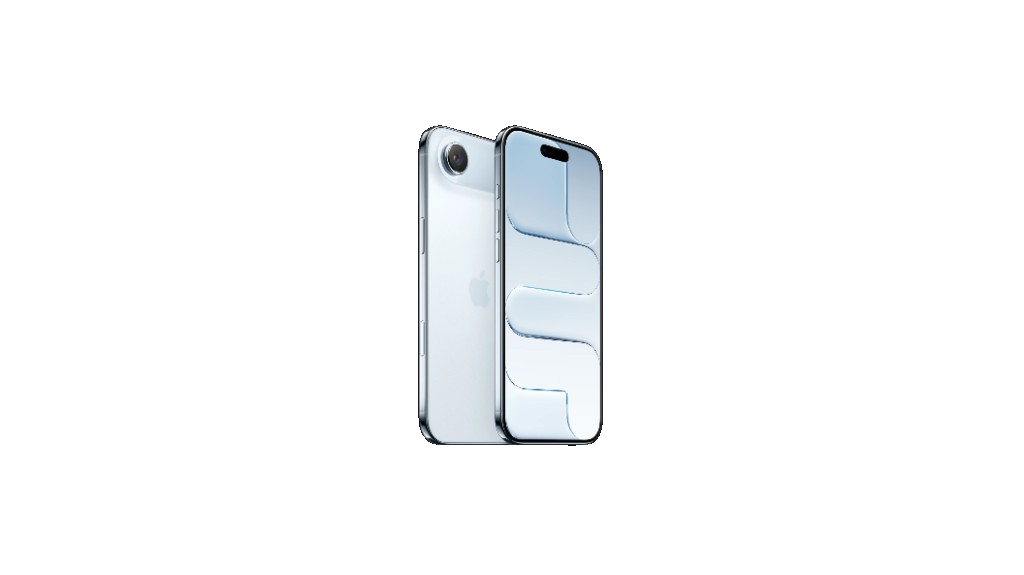
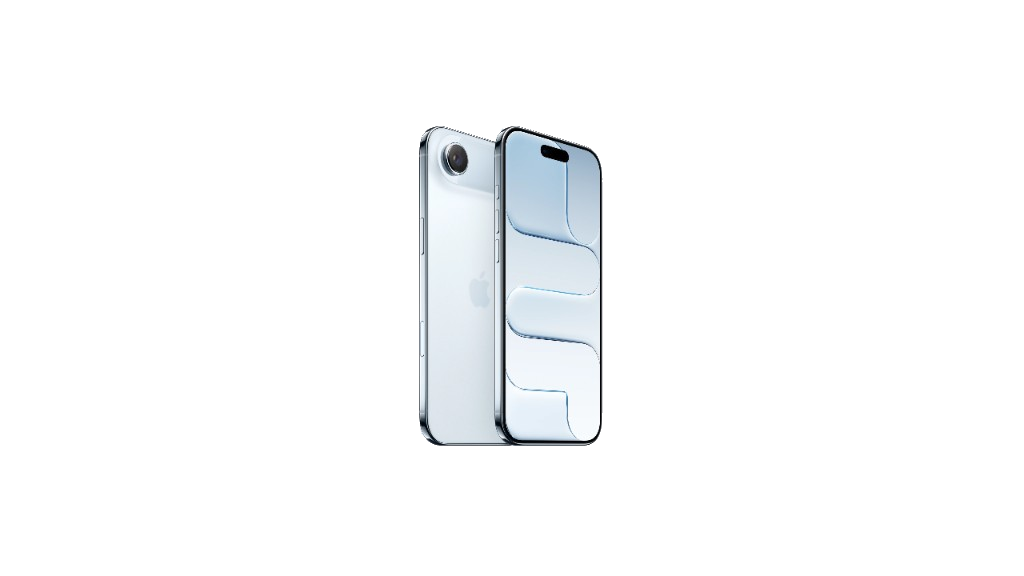
Update first homepage hero photo

diff --git a/src/pages/HomePage.tsx b/src/pages/HomePage.tsx
@@ -12,7 +12,7 @@ const ITEL_A100C_IMAGE = '/images/itel-a100c.png?v=2'
 const HERO_SAMSUNG = [
   {
     name: 'Hero 1',
-    src: '/images/hero-samsung/hero-1.png?v=2',
+    src: '/images/hero-samsung/hero-1.png?v=3',
     swatch: '#c8d6e5',
     className: 'max-h-[480px] w-[130%] max-w-none scale-125 lg:max-h-[560px] lg:scale-[1.35]',
   },
